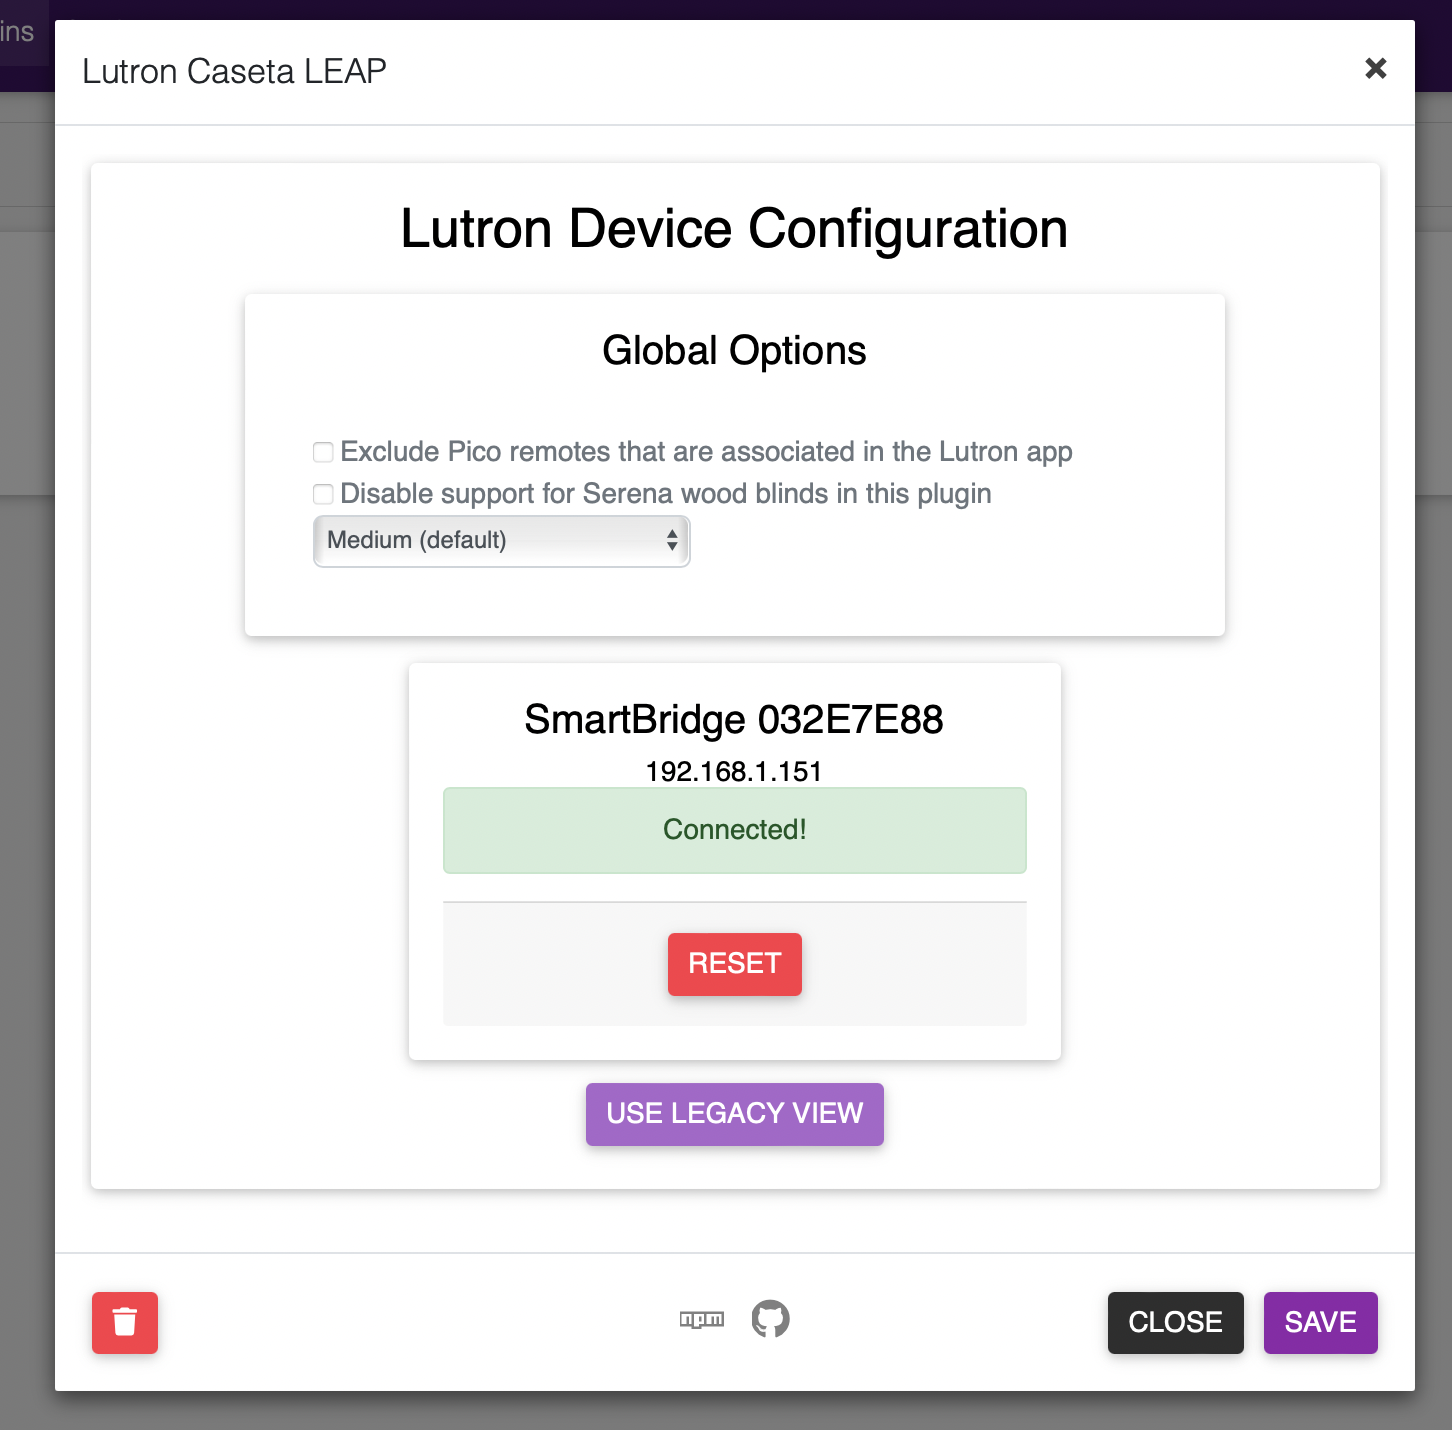
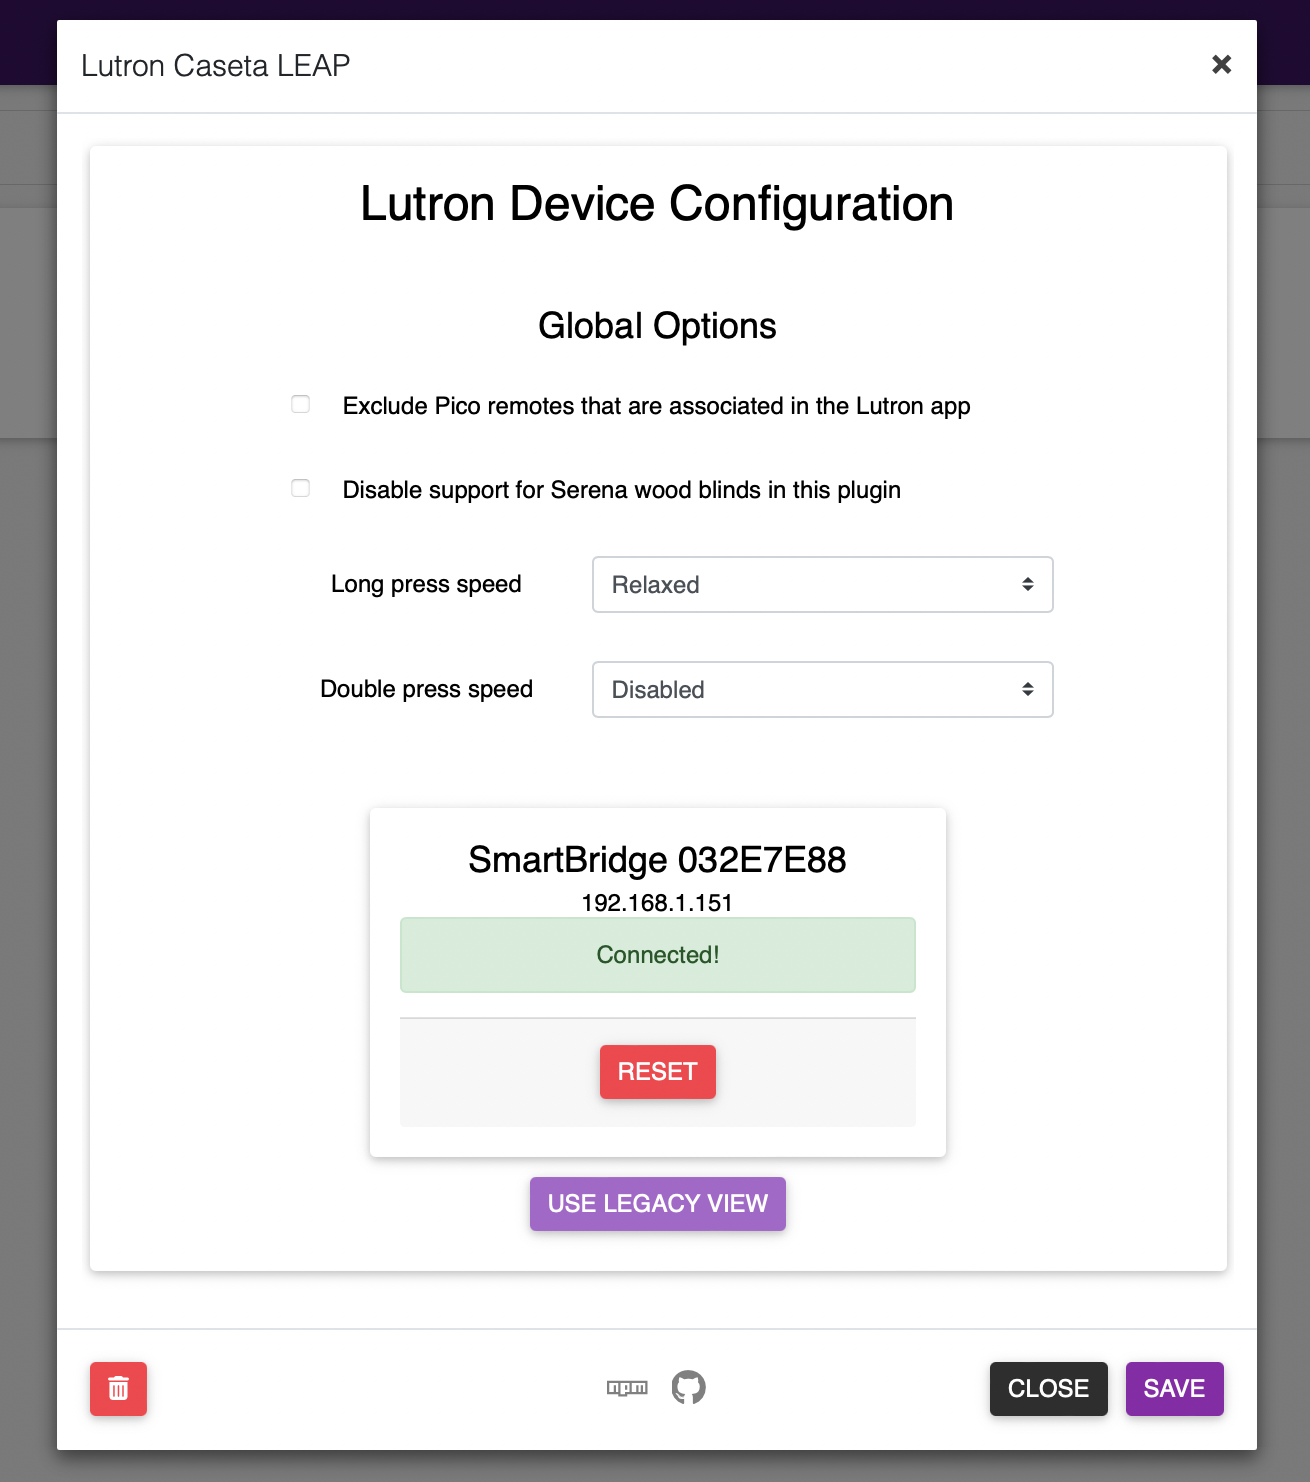
Update README

diff --git a/README.md b/README.md
@@ -8,7 +8,7 @@ This is a plugin that interfaces between Homebridge (and HomeKit) and the [Lutro
 * [Pico Remotes](https://www.lutron.com/en-US/Products/Pages/Components/PicoWirelessController/Models.aspx)
 * Caseta Occupancy Sensors
 
-Because HomeKit control for dimmers and switches, etc, are natively supported by the Smart Bridge, this plugin doesn't implement them. If you want to help out and add support, please see the [To-do and contributions](#to-do-and-contributions) section at the bottom of this document.
+Because HomeKit control for dimmers and switches, etc, are natively supported by the Smart Bridge, this plugin doesn't implement them. If you want to help out and add support, please see the [To-do and contributions](#to-do-and-contributions) section at the bottom of this document. Serena Smart Wood Blinds support in this plugin can be disabled.
 
 This plugin makes use of the [lutron-leap-js](https://github.com/thenewwazoo/lutron-leap-js) library, which implements the Lutron LEAP protocol, used by the Lutron mobile apps and third-party integrations. It has been tested with the non-Pro and Pro bridges, and may also be able to work with RA2 (but has not been tested).
 
@@ -45,6 +45,8 @@ When this plugin was written, Lutron did not support the Serena Tilt-Only Wood B
 #### Double- and long-press speed
 
 This lets you set the speed with which you must click buttons in order to trigger a double- or a long-press of a button. The default should be comfortable for most modern computer users. My hope is that slow and fast are better for some users. If you find they do not work for you, please let me know!
+
+These features can also be disabled individually in the settings. This can improve responsiveness to the remaining types of presses. **The configuration options in HomeKit do not change, but the plug-in will ignore disabled press types.**
 
 ## 🏄 User Information
 
@@ -106,7 +108,6 @@ Note that enabling DEBUG logging increases the amount of log information _greatl
 ## 📝 To-do and contributions
 
 The following items are on my wishlist:
-* Add support for double- and long-presses on Pico remotes
 * Extend the Serena blind support to enable the tilt characteristic directly (in addition to faking lift w/ tilt)
 * Add/validate support for RA2 bridges (would require hardware donation)
 
@@ -190,6 +191,12 @@ The shape of the configuration is:
 ```json
 {
     "platform": "LutronCasetaLeap",
+        "options": {
+            "filterPico": false,
+            "filterBlinds": false,
+            "clickSpeedLong": "default",
+            "clickSpeedDouble": "default"
+        },
         "secrets": [
             {
                 "bridgeid": "0a1b2c3d",
